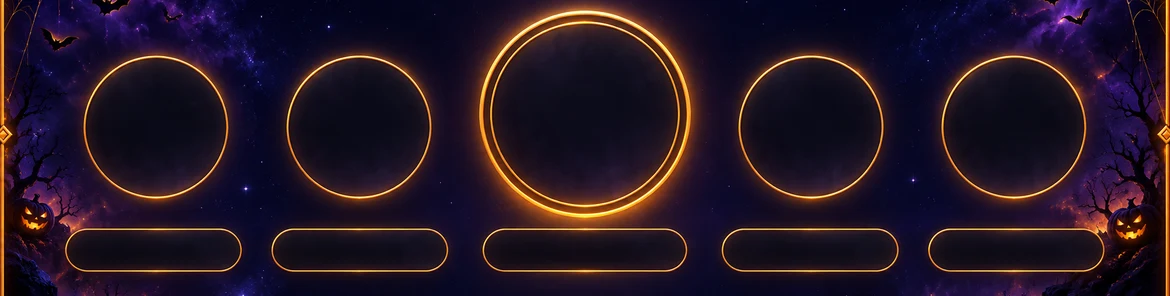
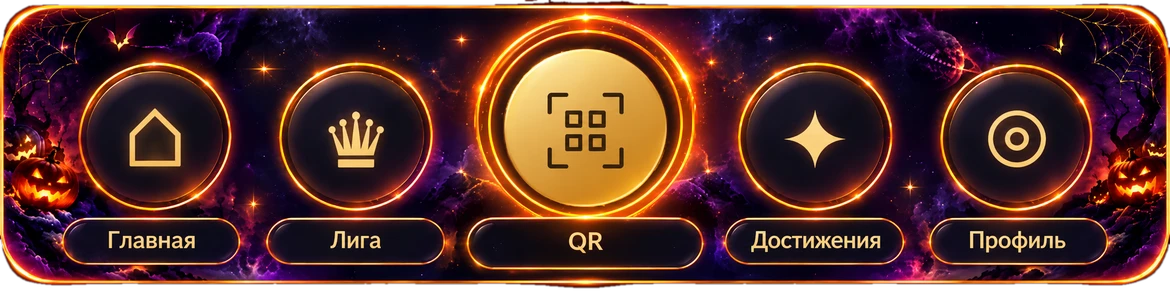
Halloween: use fully drawn bottom navigation art with live hit areas
Claude-Session: https://claude.ai/code/session_01RgdK9nJdDDTSAHndA4eHr7

diff --git a/styles.css b/styles.css
@@ -10361,74 +10361,52 @@ html.theme-halloween body .client-home.home-v2 .home-league-podium strong {
   color: #ffcf9a !important;
 }
 
-/* Halloween Block 6: bottom navigation (art 390x99 css px, crop of the generated bar) */
+/* Halloween Block 6: bottom navigation (fully baked art 390x97 css px; buttons stay live but invisible) */
 html.theme-halloween .bottom-nav {
   display: block !important;
-  height: calc(99px + env(safe-area-inset-bottom)) !important;
+  height: calc(97px + env(safe-area-inset-bottom)) !important;
   min-height: 0 !important;
   padding: 0 !important;
   border: 0 !important;
-  background: #0b0a24 url("/assets/halloween/nav-midnight.webp?v=1") top center / 100% 99px no-repeat !important;
-  box-shadow: 0 -8px 24px rgba(11,10,36,.6) !important;
+  background: transparent url('/assets/halloween/nav-midnight.webp?v=2') top center / 100% 97px no-repeat !important;
+  box-shadow: none !important;
   backdrop-filter: none !important;
   -webkit-backdrop-filter: none !important;
 }
 html.theme-halloween .bottom-nav button {
   position: absolute !important;
-  top: 18px;
+  top: 17px;
   width: 64px;
   height: 72px;
   min-height: 0 !important;
   display: block !important;
   transform: translateX(-50%);
   background: transparent !important;
-  color: #ffe2b0 !important;
+  color: transparent !important;
 }
 html.theme-halloween .bottom-nav button > span,
-html.theme-halloween .bottom-nav button:not(.qr-nav-button) > span {
-  display: grid !important;
-  width: 48px !important;
-  height: 48px !important;
-  margin: -5px auto 0 !important;
-  place-items: center;
-  border: 0 !important;
-  background: transparent !important;
-  box-shadow: none !important;
-  color: #ffe2b0;
-  font-size: 20px;
-}
 html.theme-halloween .bottom-nav button > small {
+  opacity: 0 !important;
+}
+html.theme-halloween .bottom-nav button::after {
+  content: '';
   position: absolute;
-  left: 3px;
-  top: 58px;
-  width: 58px;
-  height: 14px;
-  line-height: 14px;
-  font-size: 8px;
-  text-align: center;
-  white-space: nowrap;
-  letter-spacing: 0 !important;
-  color: #ffe2b0 !important;
+  left: 50%;
+  top: 29px;
+  width: 50px;
+  height: 50px;
+  transform: translate(-50%, -50%);
+  border-radius: 50%;
+  pointer-events: none;
+  opacity: 0;
 }
-html.theme-halloween .bottom-nav button.active > span,
-html.theme-halloween .bottom-nav button.active:not(.qr-nav-button) > span {
-  color: #ffd27a;
-  text-shadow: 0 0 10px rgba(255,190,80,.9);
-  background: radial-gradient(circle, rgba(233,168,59,.28), transparent 70%) !important;
+html.theme-halloween .bottom-nav button.active::after {
+  opacity: 1;
+  box-shadow: 0 0 12px 2px rgba(255,190,80,.75), inset 0 0 10px rgba(255,190,80,.45);
 }
-html.theme-halloween .bottom-nav button.active > small { color: #ffd27a !important; }
-html.theme-halloween .bottom-nav button:nth-child(1) { left: 13.33%; }
-html.theme-halloween .bottom-nav button:nth-child(2) { left: 30.64%; }
-html.theme-halloween .bottom-nav button:nth-child(3) { left: 50%; top: 11px; }
-html.theme-halloween .bottom-nav button:nth-child(4) { left: 69.3%; }
-html.theme-halloween .bottom-nav button:nth-child(5) { left: 86.6%; }
-html.theme-halloween .bottom-nav .qr-nav-button > span {
-  width: 54px !important;
-  height: 54px !important;
-  margin: -6px auto 0 !important;
-  border: 1px solid rgba(255,214,140,.7) !important;
-  background: linear-gradient(145deg, #f4cf82, #b97916) !important;
-  box-shadow: 0 0 14px rgba(233,168,59,.55) !important;
-  color: #2e210f;
-}
-html.theme-halloween .bottom-nav .qr-nav-button > small { top: 65px; }
+html.theme-halloween .bottom-nav button:nth-child(1) { left: 13.25%; }
+html.theme-halloween .bottom-nav button:nth-child(2) { left: 30.4%; }
+html.theme-halloween .bottom-nav button:nth-child(3) { left: 50%; top: 14px; }
+html.theme-halloween .bottom-nav button:nth-child(3)::after { top: 28px; width: 56px; height: 56px; }
+html.theme-halloween .bottom-nav button:nth-child(4) { left: 69.65%; }
+html.theme-halloween .bottom-nav button:nth-child(5) { left: 86.85%; }
